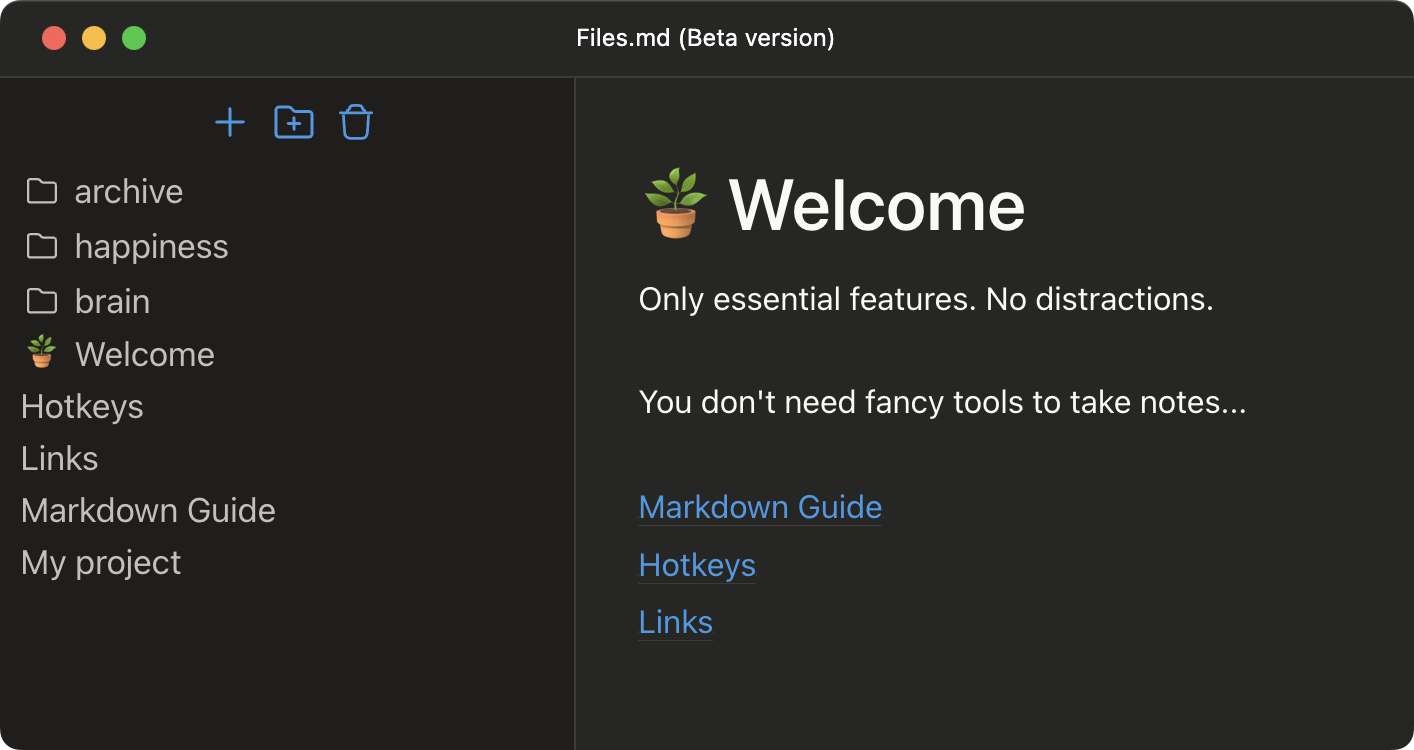
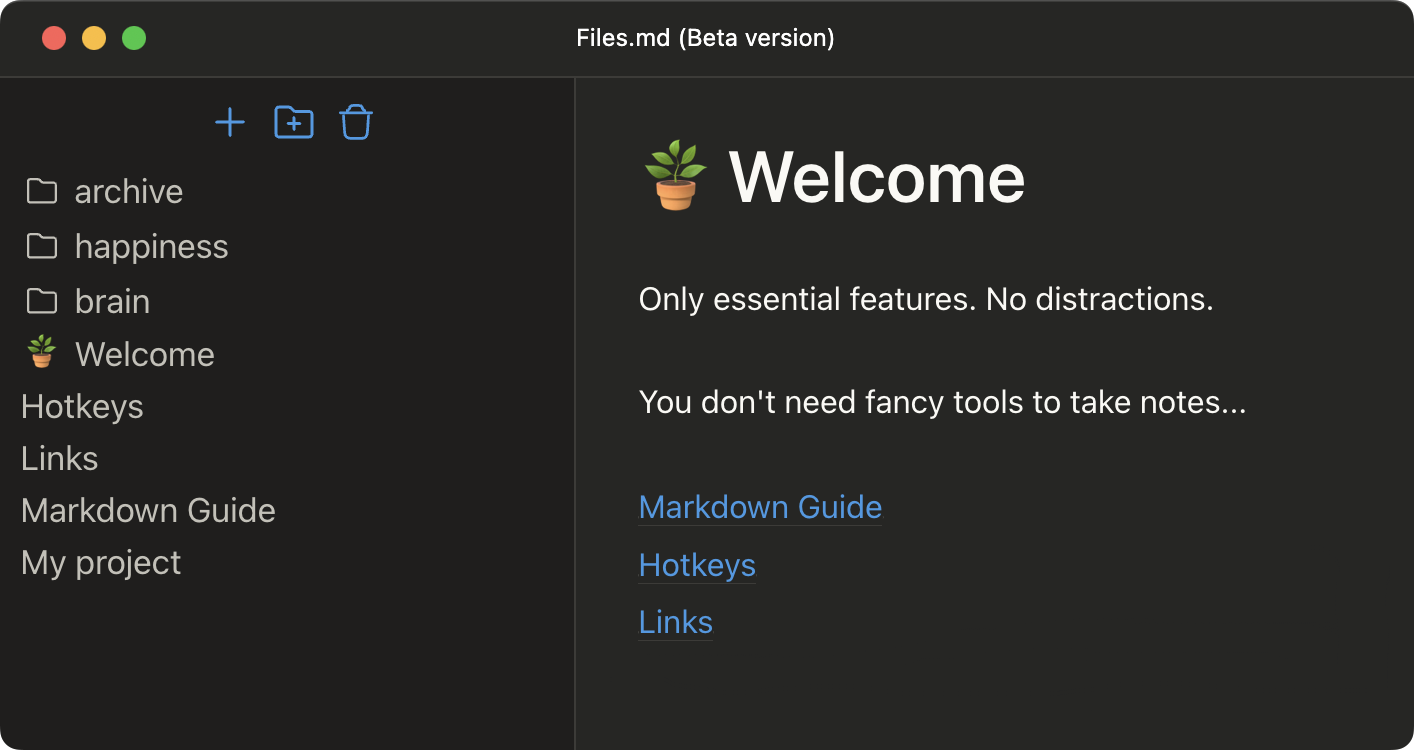
fix screenshot

Changed region(s): [[0.4356, 0.184, 0.7468, 0.3373]]

diff --git a/README.md b/README.md
@@ -232,14 +232,14 @@ Read 4K randomly from SSD = 150,000 ns
 0) Be sure that all client app fully synced with the server (bring the app in the focus)
 1) Stop bot on old server, so no new files would be created.
 2) Compress all the files on one server: `tar -czvf storage.tar.gz storage`
-3) scp the file to your host machine: `scp SSH_HOST:/app/storage.tar.gz .`
-4) scp the file to your target machine
+3) `scp` the file to your host machine: `scp SSH_HOST:/app/storage.tar.gz .`
+4) `scp` the file to your target machine
 
 Synchronization is relying on `mtime`, so after compressing/decompressing the flag wouldn't be lost.
 
 1) `cd /opt/files.md`
 2) `tar -czvf tokens.tar.gz tokens`
-3) scp to same dir on target machine
+3) `scp` to same dir on target machine
 
 We don't need to transfer fslog (renames), if we're certain that all clients read the log.
 